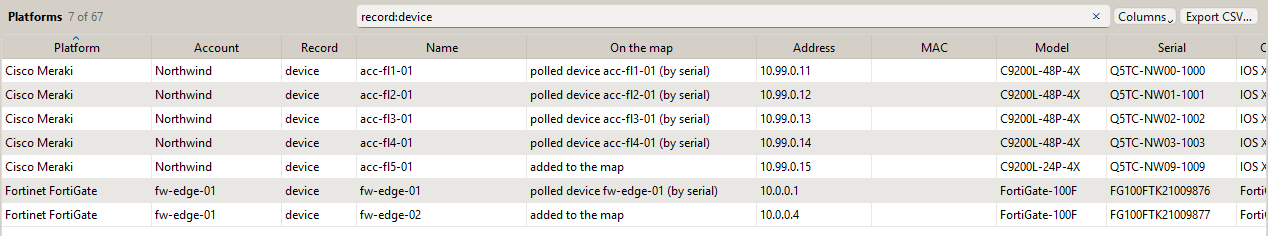
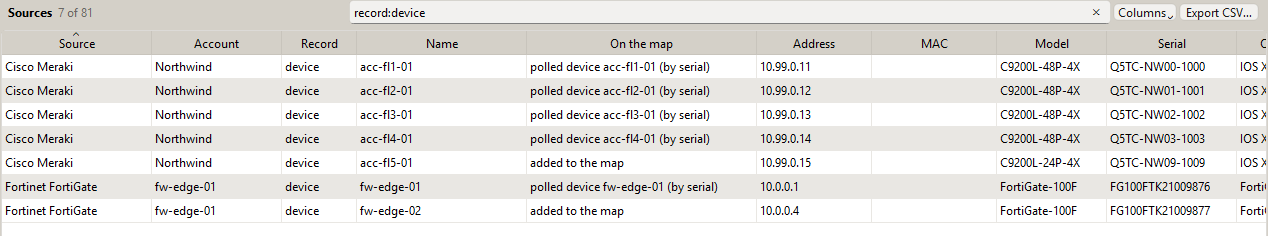
SubnetSleuth 0.18: one place for connections and credentials

Changed region(s): [[0.0, 0.1483, 1.0, 0.9788], [0.2768, 0.0, 1.0, 0.1186], [0.0, 0.0297, 0.0923, 0.089]]

diff --git a/src/content/projects/subnetsleuth/index.md b/src/content/projects/subnetsleuth/index.md
@@ -2,7 +2,7 @@
 title: 'SubnetSleuth: inventory and map a network you inherit'
 world: work
 date: 2026-10-01
-summary: "A Windows desktop app and command-line tool for taking stock of a network you are now responsible for but did not build. It reads the network's own devices over SNMP, read-only, and works out what is there and how it is wired: devices, links, subnets, VLANs and every host. It pulls in what the firewalls, management platforms and Active Directory already know, draws the VPN tunnels, and lets you ask Claude what it all means."
+summary: "A Windows desktop app and command-line tool for taking stock of a network you are now responsible for but did not build. It reads the network's own devices over SNMP, read-only, and works out what is there and how it is wired: devices, links, subnets, VLANs and every host. It pulls in what the firewalls, management platforms, Active Directory and vCenter already know, from one place that holds every connection and credential, draws the VPN tunnels, and lets you ask Claude what it all means."
 featured: false
 cover: ./cover.png
 coverAlt: "SubnetSleuth's physical topology map of a sample campus: an edge firewall and WAN router above a core switch pair, with floor, server and warehouse switches below and access points under them"
@@ -68,15 +68,23 @@ The **Overview** is the first answer to "what have we got". It separates the net
 
 ![A subnet's address map: a grid of a /22's addresses, green where a host is, blue for network devices, alongside the subnet list with utilisation bars](./subnet.png)
 
+## One place for access
+
+Taking stock of a network means signing in to a lot of things: SNMP on the switches, SSH on the routers, a domain account for Active Directory and the DHCP servers, an API key for the cloud dashboard, a read-only admin on each firewall manager, an account for vCenter. SubnetSleuth keeps all of it in one place. **Credentials** are saved once and chosen wherever a job signs in, so one domain service account can serve Active Directory, every DHCP server and the inspection of Windows hosts, and changing its password is one edit. **Connections** are the systems to read from, each with its settings and the credential it uses, and a **Test** button that signs in and reads one small thing without pulling anything. **Pull all** reads every connection into the project, and can follow each scheduled rescan.
+
+![The Connections and credentials window: four saved connections (a Meraki organisation, a FortiGate pair, the domain and a DHCP server), each with its source, target, the credential it signs in with, and when it was last pulled and what came back; the DHCP server's last pull failed and carries a warning sign](./connections.png)
+
+Secrets never go into a project file. On Windows they are encrypted for the Windows account, or a secret can be read from an environment variable each time it is used. A secret that can't be read, because it was saved under another account or its variable isn't set, is reported as such rather than quietly sent empty. A credential that belongs to one customer's network can be limited to that network, so it is never tried anywhere else. Every use is written to the log: which credential, for what and against what, never the secret. The command line reads and writes the same list, so a connection set up in the app can be pulled from a scheduled job on a jump box.
+
 ## What the firewalls and the domain already know
 
 A scan from the outside only sees what answers. The people who ran the network left a lot more behind in their own tools: the firewall knows which tunnels go where, the cloud dashboard knows which switch port and VLAN every laptop is on and who signs in to it, the firewall manager knows the serial and firmware of boxes that are switched off today, and Active Directory knows every machine that has joined the domain and what each site's subnets are called.
 
-SubnetSleuth reads that, read-only, from **Cisco Meraki**, **Cisco Security Cloud Control**, **Cisco Secure Firewall Management Center**, **FortiGate** and **FortiManager**, **Palo Alto** firewalls and **Panorama**, **Check Point**, **SonicWall** and **Sophos**, and from **Active Directory**, Windows DNS and DHCP servers and any DNS server that allows a zone transfer. Each connector sends only the requests on its own read-only list, checked before anything leaves the machine, and sends credentials only to the platform's own hosts.
+SubnetSleuth reads that, read-only, from **Cisco Meraki**, **Cisco Security Cloud Control**, **Cisco Secure Firewall Management Center**, **FortiGate** and **FortiManager**, **Palo Alto** firewalls and **Panorama**, **Check Point**, **SonicWall** and **Sophos**, from **Active Directory**, Windows DNS and DHCP servers and any DNS server that allows a zone transfer, and from **VMware vCenter**, which knows every virtual machine and the host it runs on. A DHCP server's lease export goes through the same path. Each connector sends only the requests on its own read-only list, checked before anything leaves the machine, and sends credentials only to the platform's own address, never to a redirect elsewhere.
 
-What comes back is lined up with what the scan found. A device the platform manages is matched to the polled device by serial number, then MAC, address and name, and a serial that disagrees vetoes the weaker clues. Clients and DHCP leases follow their MAC, so a laptop that has taken a new address shows as **moved** instead of becoming a second laptop, and an address that now belongs to a different machine is flagged as **re-assigned**. That is the trap of scanning a DHCP network repeatedly: done by IP address alone, it counts the same machine twice and attaches it to the wrong record. A **Platforms** page lists every record and where it landed: on a polled device, on a host, added to the map, or kept off it because its only address was public.
+What comes back is lined up with what the scan found. A device the platform manages is matched to the polled device by serial number, then MAC, address and name, and a serial that disagrees vetoes the weaker clues. Clients and DHCP leases follow their MAC, so a laptop that has taken a new address shows as **moved** instead of becoming a second laptop, and an address that now belongs to a different machine is flagged as **re-assigned**. That is the trap of scanning a DHCP network repeatedly: done by IP address alone, it counts the same machine twice and attaches it to the wrong record. A **Sources** page lists every record and where it landed: on a polled device, on a host, added to the map, or kept off it because its only address was public.
 
-![The Platforms page filtered to managed devices: the Meraki dashboard's access switches and the FortiGate pair, each matched to the polled switch or firewall by serial number, plus an offline fifth-floor switch and the standby firewall, which no scan reached, added to the map from the platform](./platforms.png)
+![The Sources page filtered to managed devices: the Meraki dashboard's access switches and the FortiGate pair, each matched to the polled switch or firewall by serial number, plus an offline fifth-floor switch and the standby firewall, which no scan reached, added to the map from the platform](./platforms.png)
 
 **VPN tunnels go on the map.** Every site-to-site tunnel a platform reports is drawn from the firewall that owns it to the far end, green when it is up and red when it is down. The networks behind the far end hang off it on the logical view. When the far end is a box the project already knows, such as the other side of a Meraki AutoVPN pair or a branch firewall that a firewall manager reports, the tunnel joins the two. Otherwise the remote site gets its own node.
 
@@ -130,6 +138,6 @@ subnetsleuth diff last-month.sleuth site.sleuth
 
 ## Under the hood
 
-SubnetSleuth is written in Python: asyncio for the scanning, pysnmp for SNMP (v1, v2c and v3), Nmap when it is installed, and a PySide6 (Qt) desktop app. The scan engine has no Qt in it, so the app and the command line run the same code. SNMP secrets are encrypted at rest with Windows DPAPI or the system keyring.
+SubnetSleuth is written in Python: asyncio for the scanning, pysnmp for SNMP (v1, v2c and v3), Nmap when it is installed, and a PySide6 (Qt) desktop app. The scan engine has no Qt in it, so the app and the command line run the same code. Saved secrets are encrypted at rest with Windows DPAPI or the system keyring, and the log masks any secret that would otherwise be written to it.
 
-Nearly 800 tests cover it, many of them against a simulated eleven-device campus and real SNMP agents bound to loopback addresses. Every platform connector is tested against responses recorded from its vendor's documented API, including tests that every request it can send is a read and that no secret ends up in a project file. Every push builds the Windows installer on a Windows machine, starts the built app in a self-test mode that opens every page and every export, and screenshots it. The pictures on this page are those screenshots.
+More than 1,000 tests cover it, many of them against a simulated eleven-device campus and real SNMP agents bound to loopback addresses. Every connector is tested against responses recorded from its vendor's documented API, including tests that every request it can send is a read, that credentials never follow a redirect to another address, and that no secret ends up in a project file, an error message or the log. Every push builds the Windows installer on a Windows machine, starts the built app in a self-test mode that opens every page and every export, and screenshots it. The pictures on this page are those screenshots.
